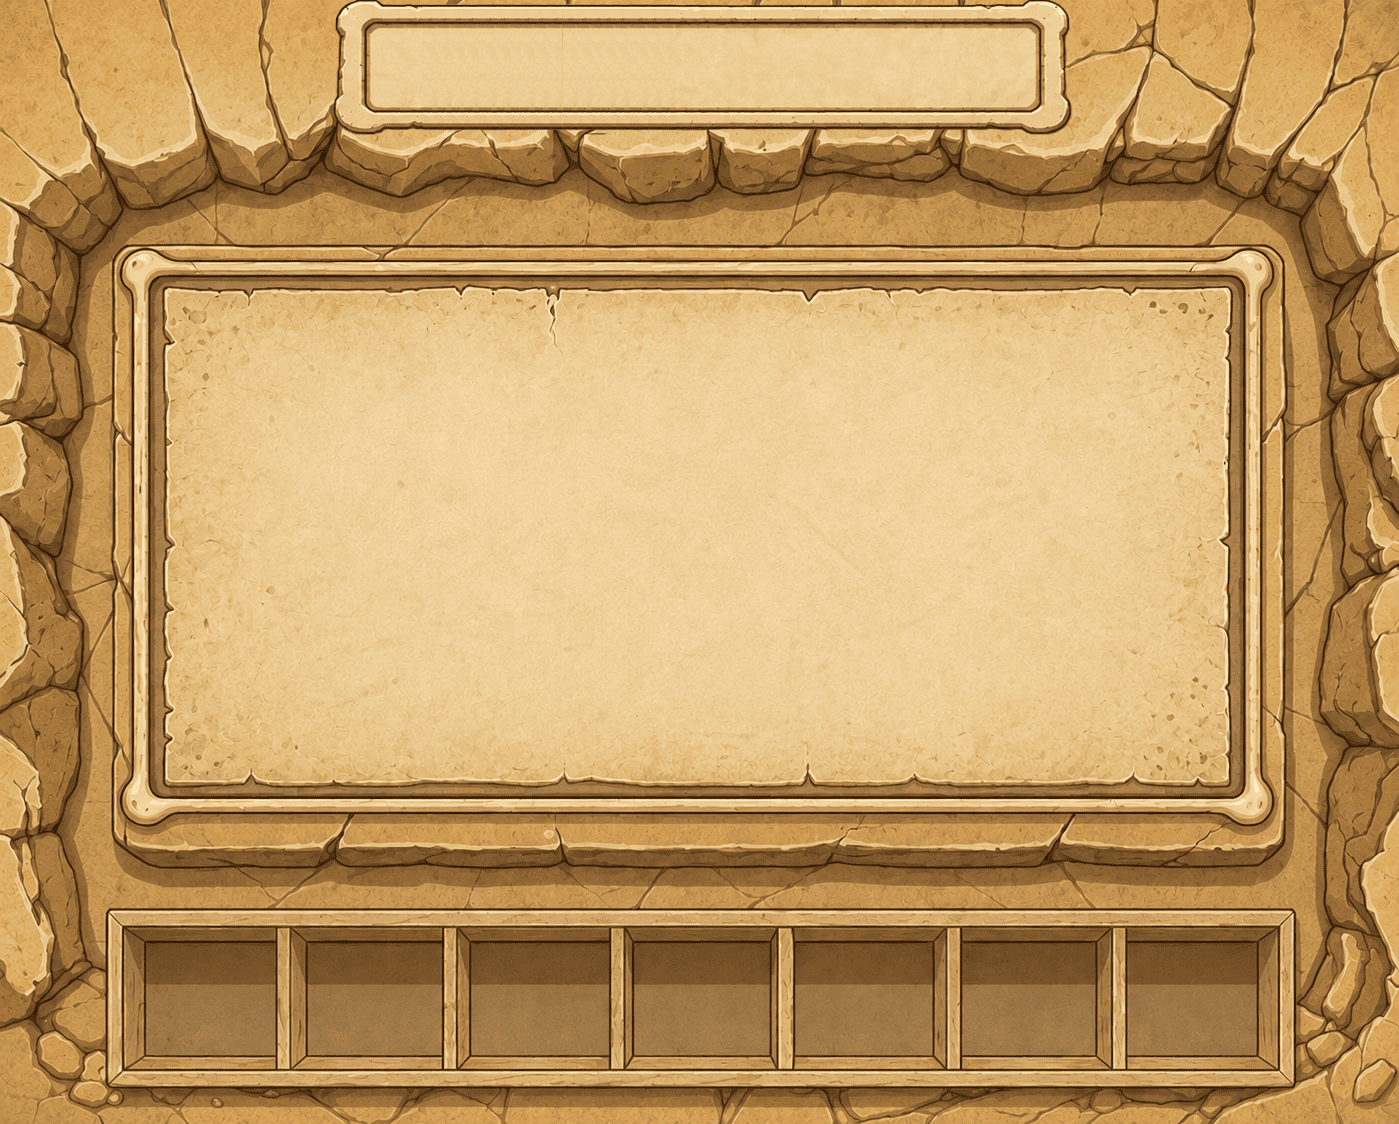
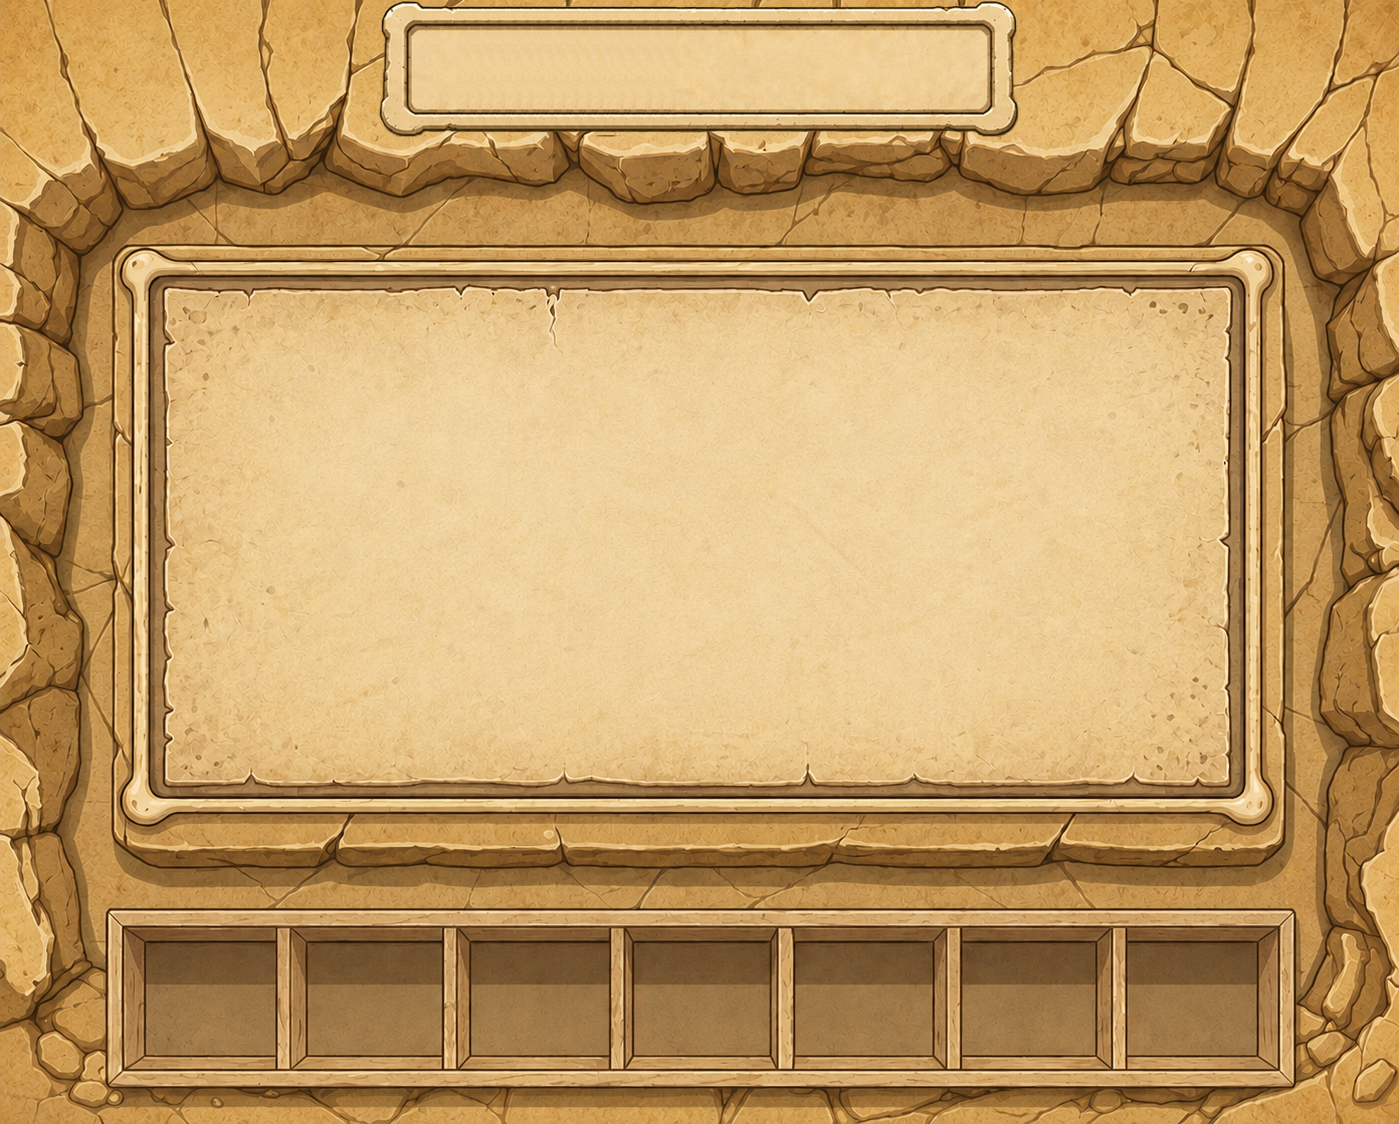
.

Changed region(s): [[0.2152, 0.0, 0.7684, 0.1246]]

diff --git a/GameForm.Designer.cs b/GameForm.Designer.cs
@@ -43,7 +43,7 @@
             this.lblTime.BackColor = System.Drawing.Color.Transparent;
             this.lblTime.Font = new System.Drawing.Font("Comic Sans MS", 20.44F, System.Drawing.FontStyle.Bold, System.Drawing.GraphicsUnit.Point, ((byte)(204)));
             this.lblTime.ForeColor = System.Drawing.Color.FromArgb(((int)(((byte)(61)))), ((int)(((byte)(39)))), ((int)(((byte)(21)))));
-            this.lblTime.Location = new System.Drawing.Point(152, 68);
+            this.lblTime.Location = new System.Drawing.Point(132, 68);
             this.lblTime.Margin = new System.Windows.Forms.Padding(2, 0, 2, 0);
             this.lblTime.Name = "lblTime";
             this.lblTime.Size = new System.Drawing.Size(34, 39);
@@ -69,7 +69,7 @@
             this.lblMistakes.BackColor = System.Drawing.Color.Transparent;
             this.lblMistakes.Font = new System.Drawing.Font("Comic Sans MS", 20.44F, System.Drawing.FontStyle.Bold, System.Drawing.GraphicsUnit.Point, ((byte)(204)));
             this.lblMistakes.ForeColor = System.Drawing.Color.FromArgb(((int)(((byte)(61)))), ((int)(((byte)(39)))), ((int)(((byte)(21)))));
-            this.lblMistakes.Location = new System.Drawing.Point(179, 29);
+            this.lblMistakes.Location = new System.Drawing.Point(159, 29);
             this.lblMistakes.Margin = new System.Windows.Forms.Padding(2, 0, 2, 0);
             this.lblMistakes.Name = "lblMistakes";
             this.lblMistakes.Size = new System.Drawing.Size(34, 39);
@@ -88,7 +88,7 @@
             this.activetime.Image = global::Bone_By_Bone.Properties.Resources.activegametime;
             this.activetime.Location = new System.Drawing.Point(3, 3);
             this.activetime.Name = "activetime";
-            this.activetime.Size = new System.Drawing.Size(337, 145);
+            this.activetime.Size = new System.Drawing.Size(287, 145);
             this.activetime.SizeMode = System.Windows.Forms.PictureBoxSizeMode.StretchImage;
             this.activetime.TabIndex = 13;
             this.activetime.TabStop = false;